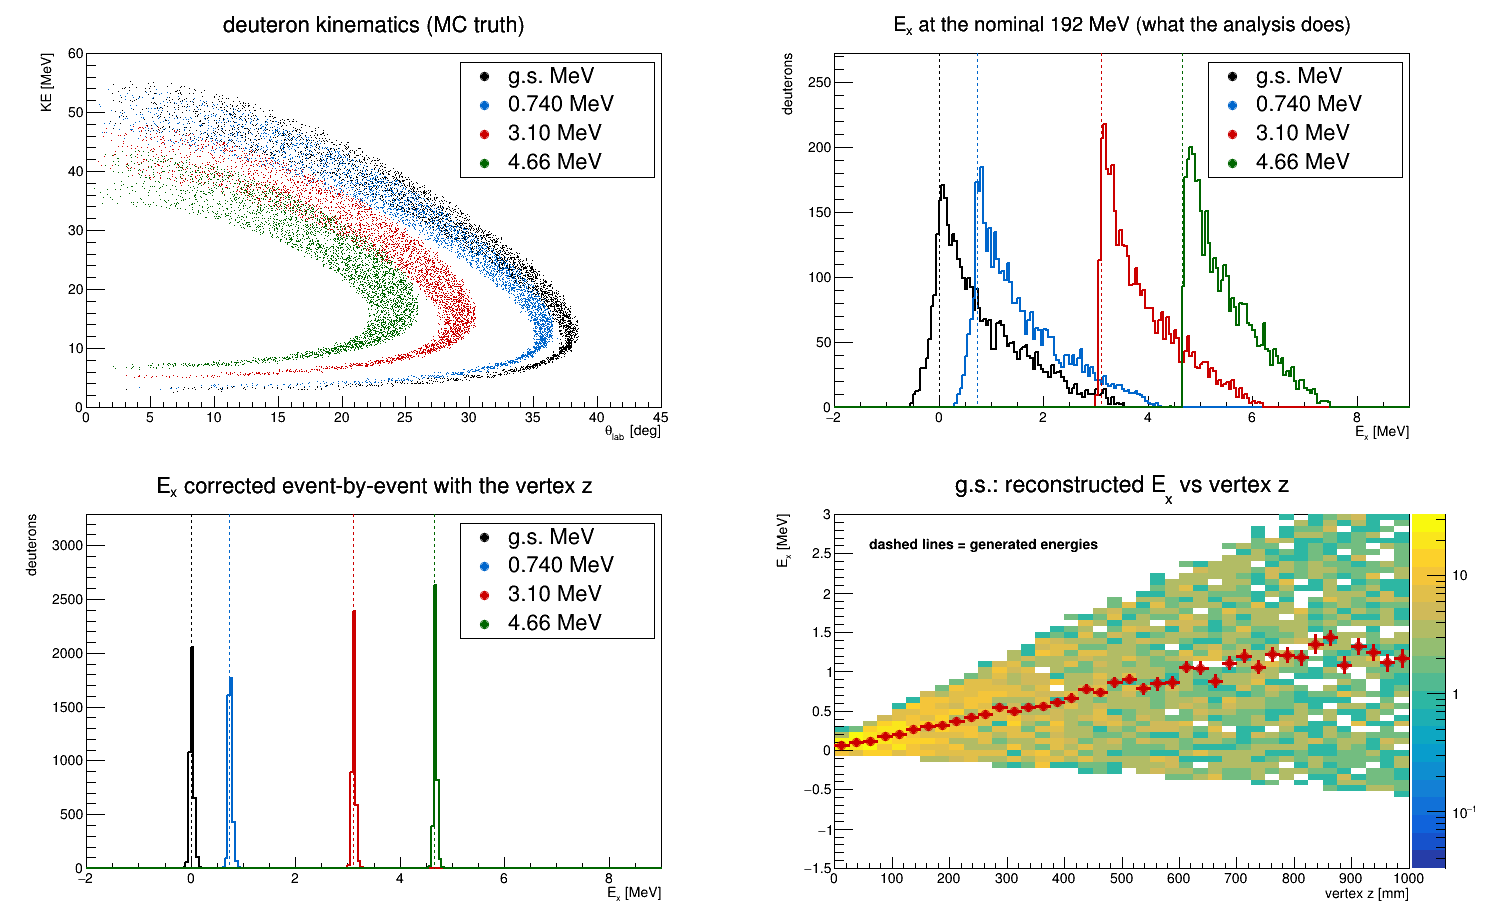
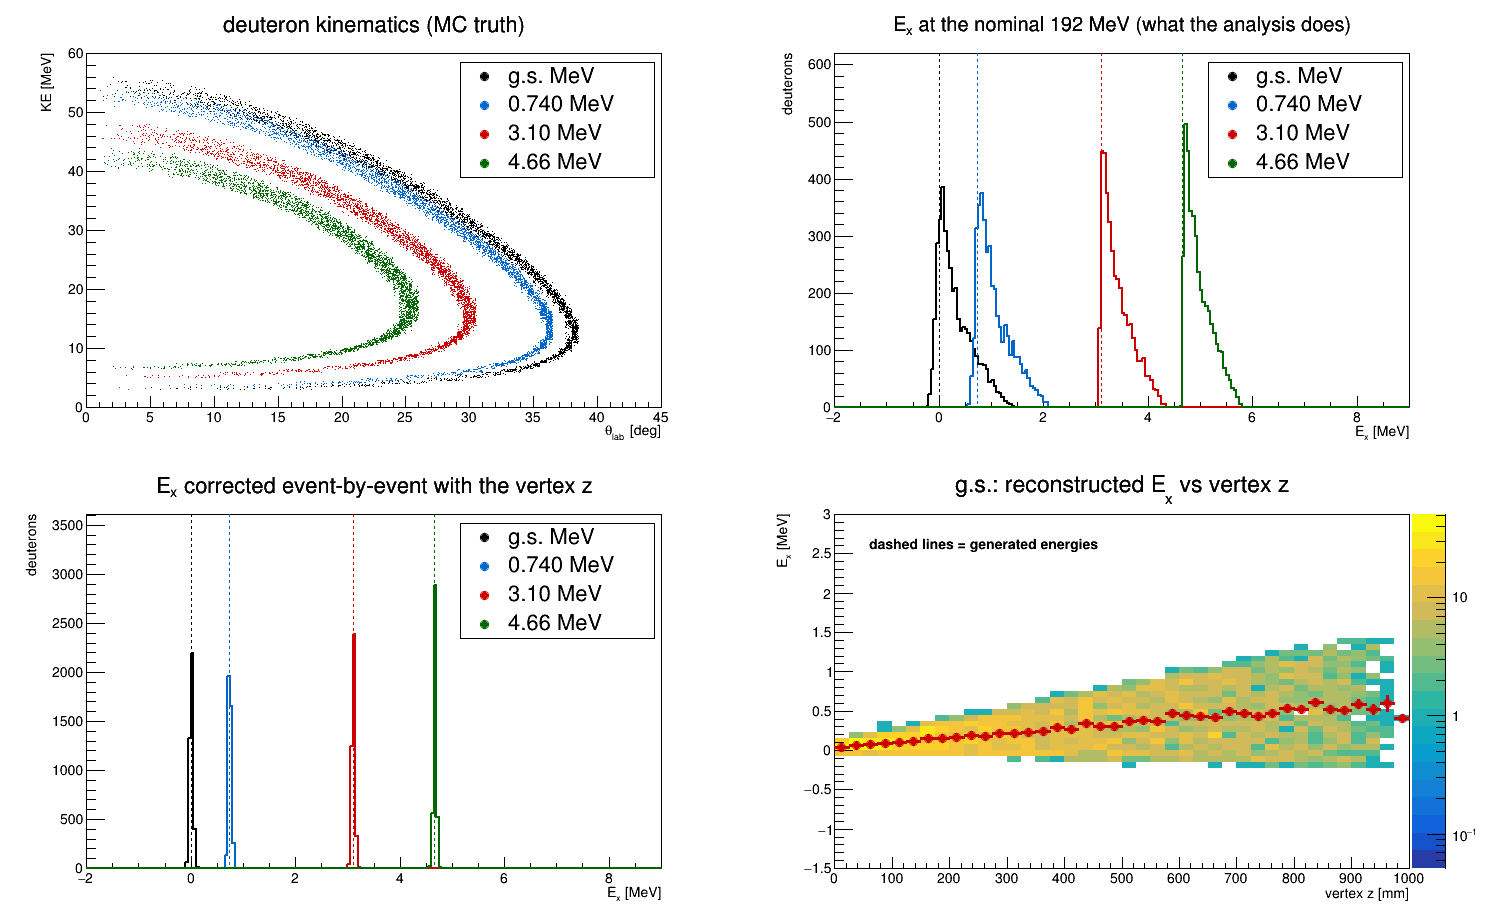
16C_pd: set plot_states dEdrift to 11.6 MeV (300 torr), regen plot
The 28 MeV default dated from the sim with the wrong 1 bar gas and
over-corrected the 300 torr files (g.s. -0.45 +- 0.48 MeV). 11.6 MeV,
measured by scanning on these files, gives g.s. 0.01 +- 0.029 MeV.

diff --git a/macro/Simulation/ATTPC/16C_pd/plot_states_C16pd.C b/macro/Simulation/ATTPC/16C_pd/plot_states_C16pd.C
@@ -6,14 +6,18 @@
 /// convention -- not a measurement error. That is the point: it isolates one effect.
 ///
 /// The effect is the beam losing energy before it reacts. The vertex is uniform along the metre
-/// of gas, the 16C loses about 28 MeV crossing all of it, and the excitation energy is
-/// reconstructed at the NOMINAL 192 MeV, which is what the data analysis does. So a reaction at
-/// the far end of the chamber is reconstructed with a beam energy nearly 28 MeV too high and its
-/// apparent Ex comes out too large. Since the vertex is uniform, that turns into a spread.
+/// of gas, the 16C loses about 11.6 MeV crossing all of it in this simulation (H2, 300 torr), and
+/// the excitation energy is reconstructed at the NOMINAL 192 MeV. So a reaction at the far end of
+/// the chamber is reconstructed with a beam energy about 11.6 MeV too high and its apparent Ex
+/// comes out too large. Since the vertex is uniform, that turns into a spread.
+///
+/// dEdrift was 28 MeV until 2026-11-09, a leftover from the sim with the wrong 1 bar gas. 11.6 is
+/// the value measured on these 300 torr files: it minimises the corrected width and centres the
+/// states (scan 10.4-11.6, g.s. 0.04+-0.041 to 0.01+-0.029 MeV). CATIMA gives 10.8 MeV at 192 MeV.
 ///
 /// The bottom row shows what correcting it costs: nothing but the vertex position. Replacing the
-/// constant 192 MeV with 192 - 28 z/1000 collapses the width from 0.84 MeV to 0.037 MeV and puts
-/// every state on the energy it was generated at.
+/// constant 192 MeV with 192 - 11.6 z/1000 collapses the g.s. RMS from 0.326 MeV to 0.029 MeV and
+/// puts every state within 0.01 MeV of the energy it was generated at.
 ///
 /// Note the correction here uses the TRUE vertex z. In data it would use the reconstructed one,
 /// so the gain realised depends on the vertex resolution -- which the digitised simulation, not
@@ -22,7 +26,7 @@
 ///   root -b -q 'plot_states_C16pd.C()'
 
 void plot_states_C16pd(TString dir = "/mnt/f/a1975_C16_pd_sim/", TString seed = "s1001",
-                       Double_t Ebeam = 192.0, Double_t dEdrift = 28.0, TString tag = "")
+                       Double_t Ebeam = 192.0, Double_t dEdrift = 11.6, TString tag = "")
 {
    gSystem->Load("libAtSimulationData.so");
    gStyle->SetOptStat(0);
